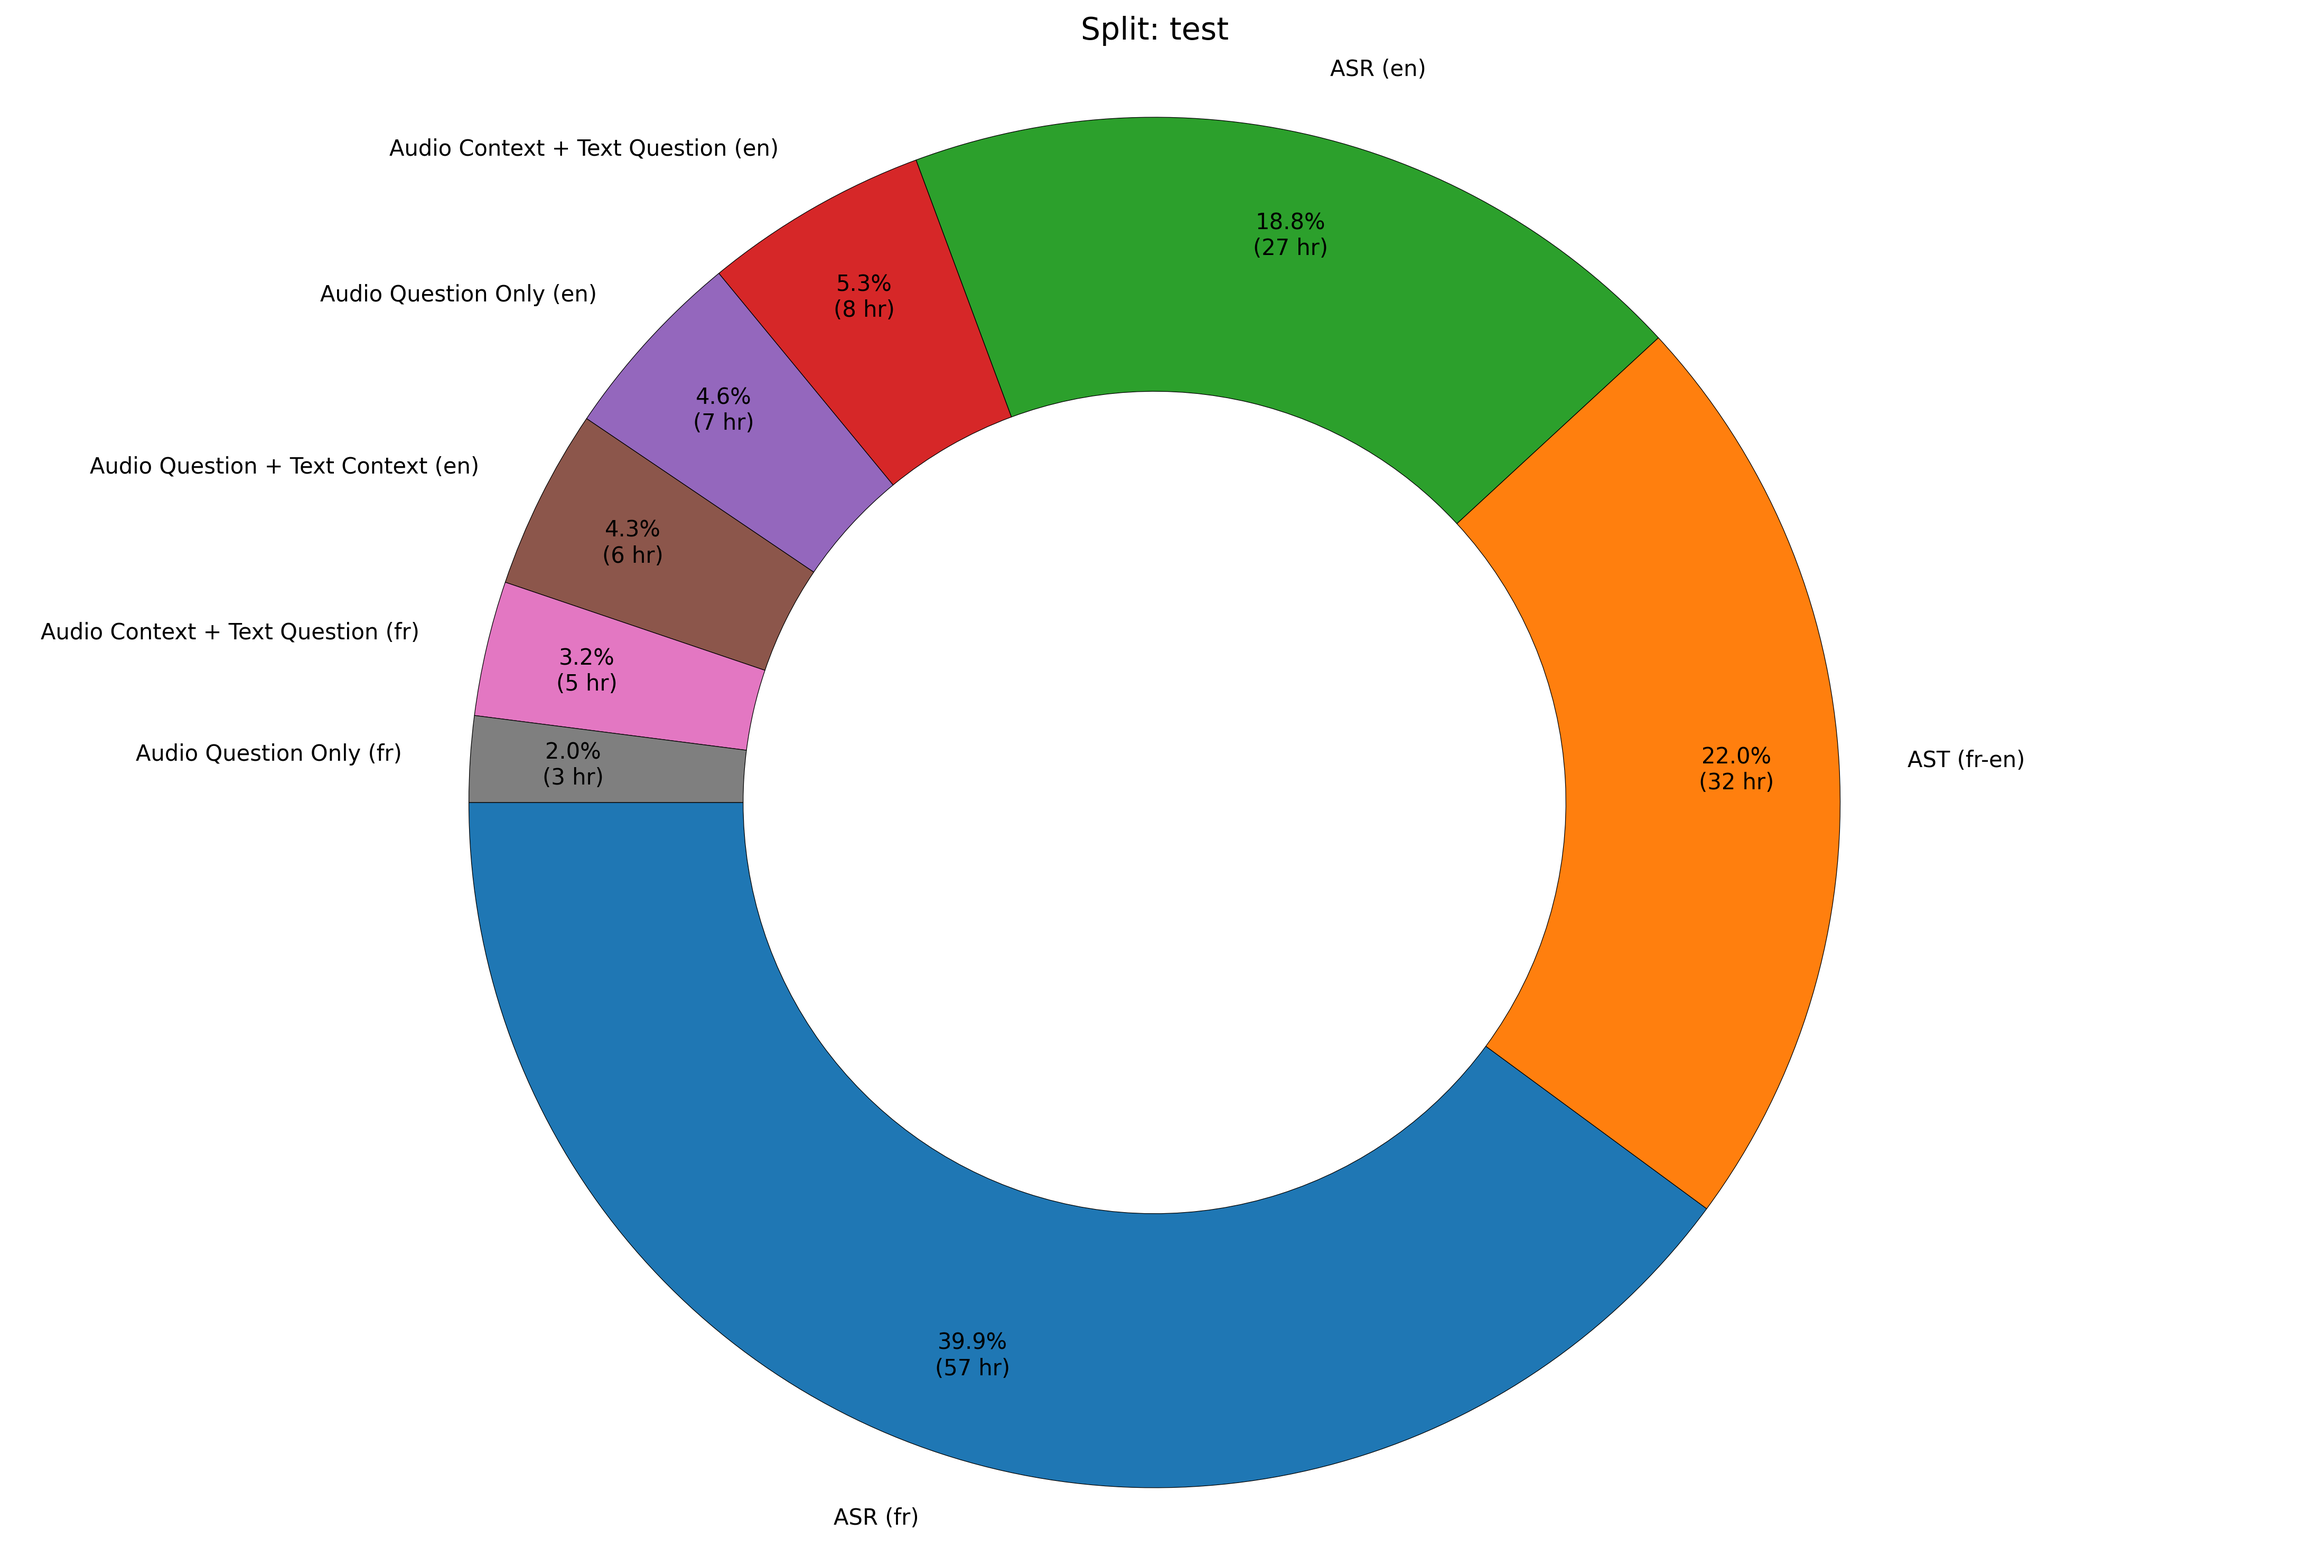
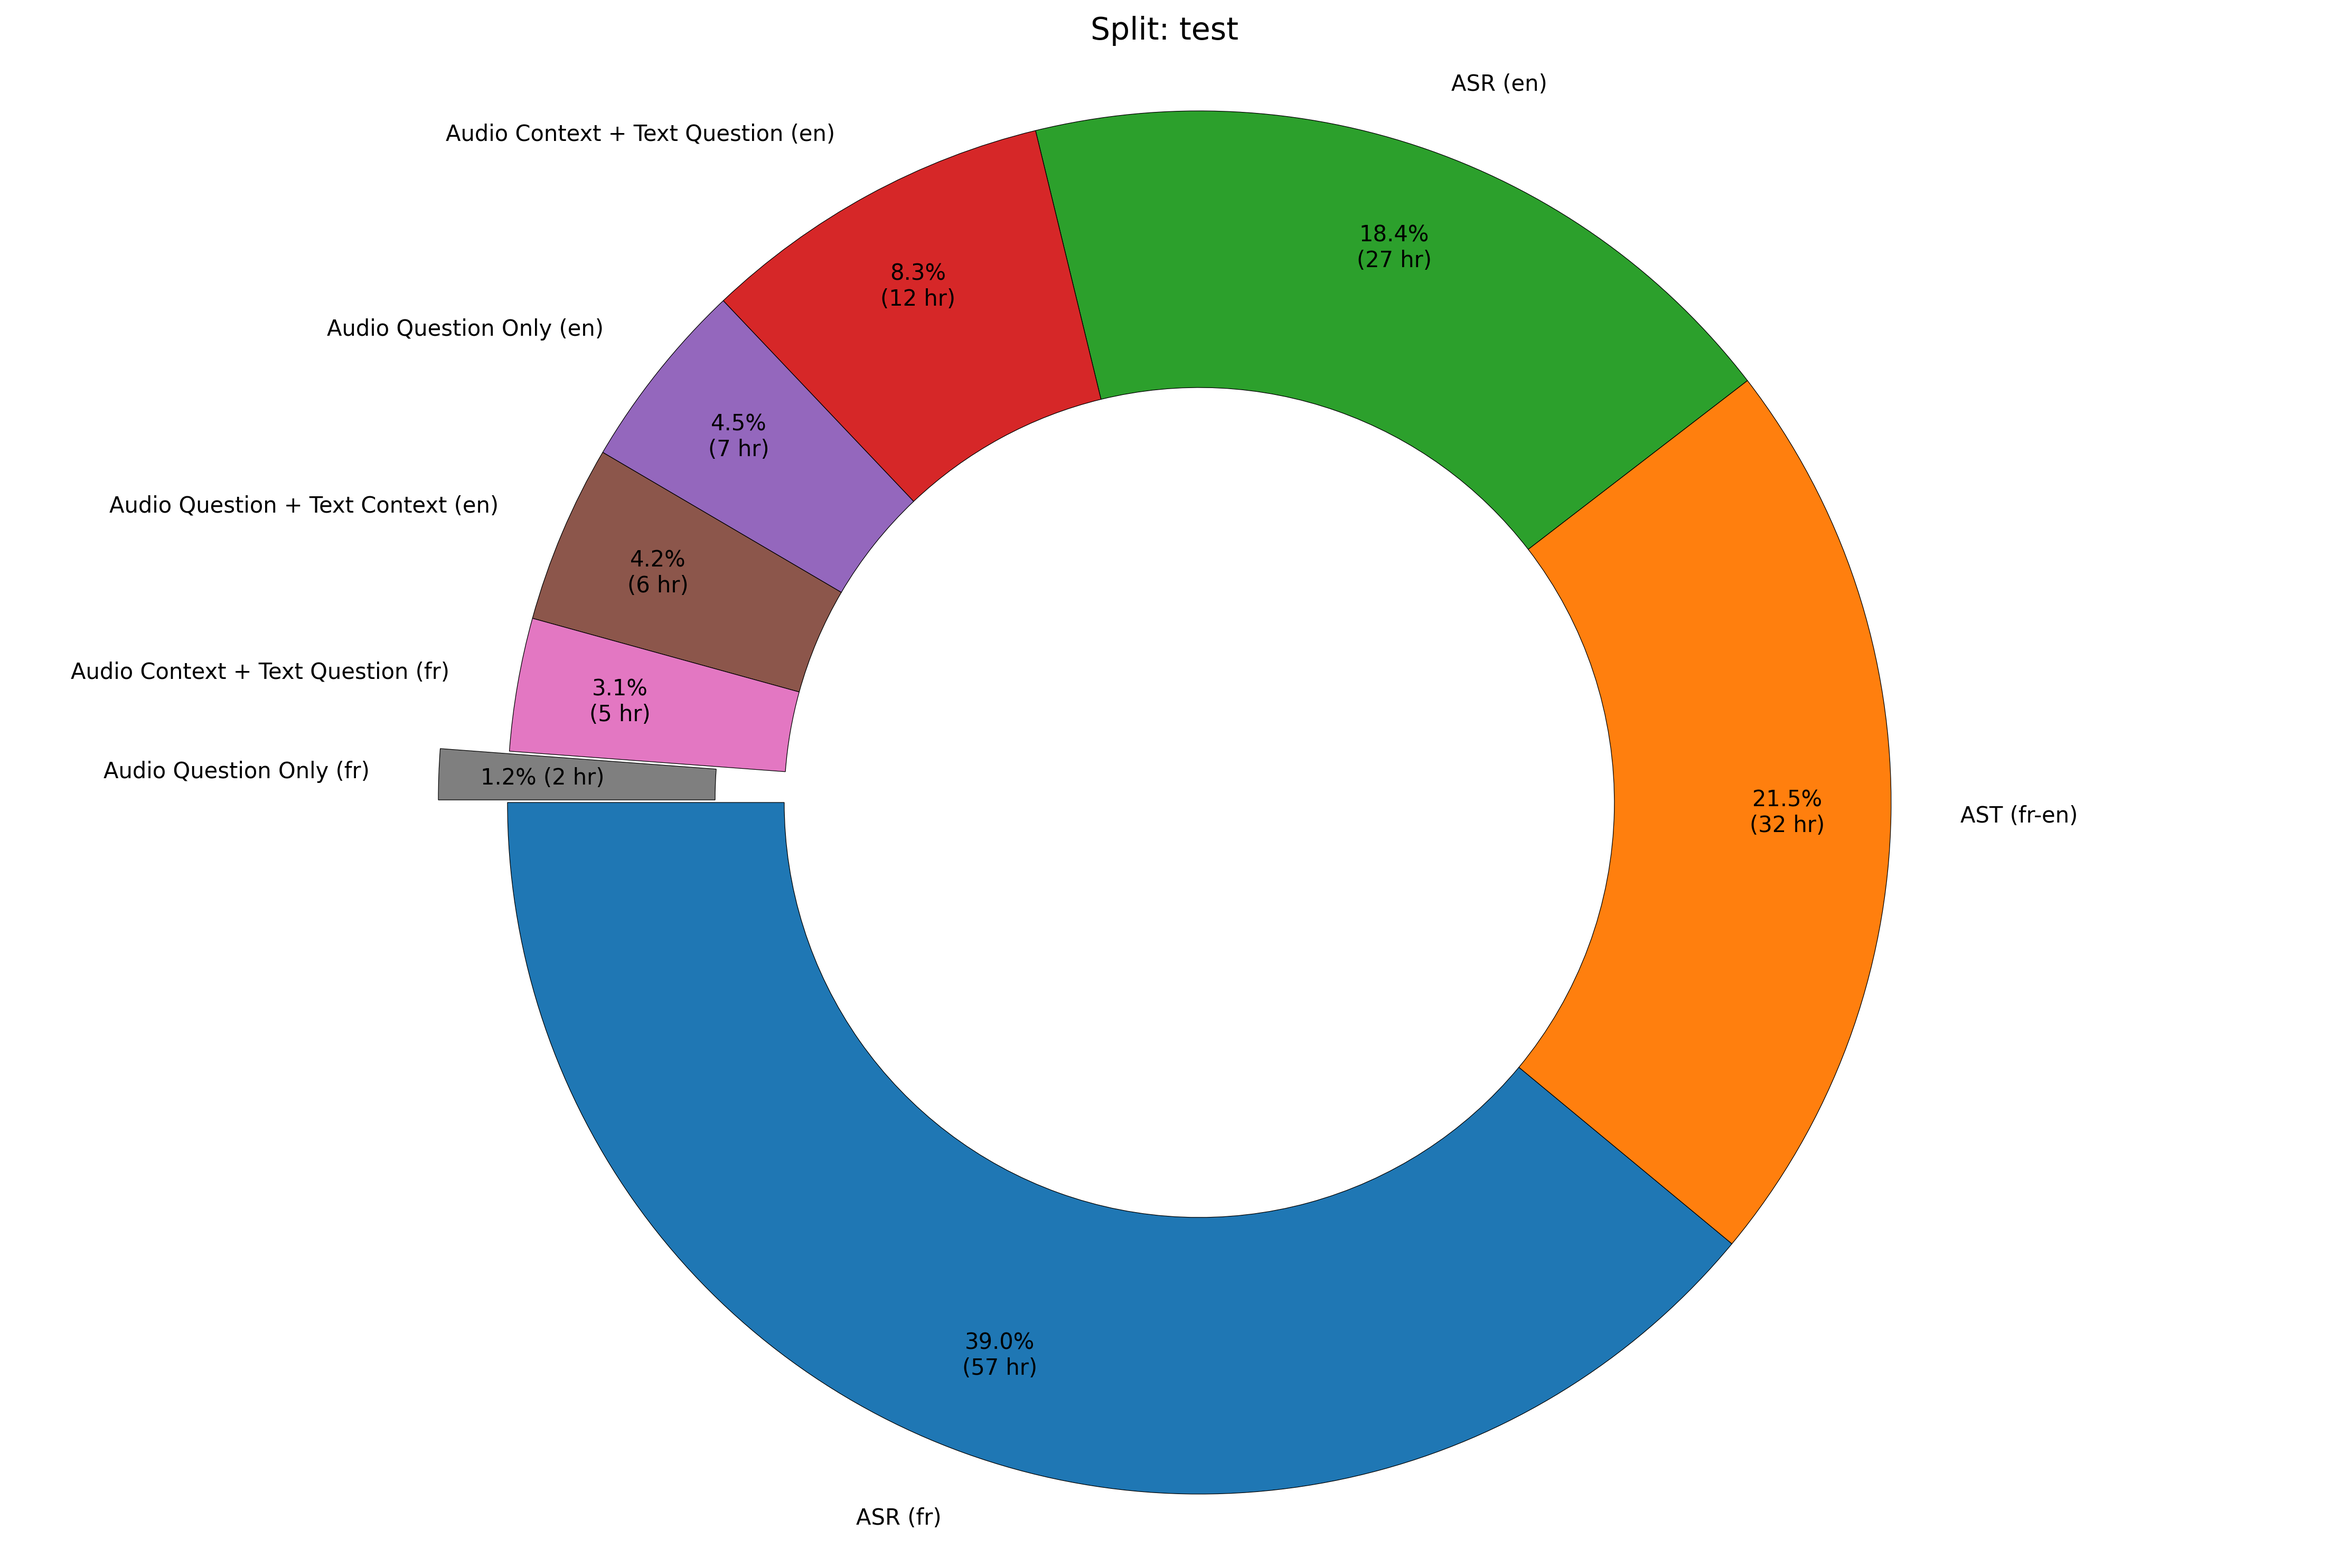
- Update the Assets the metadata and the plots. - Update the utils/manifest2wav.py to accept the single-turn manifests.

diff --git a/utils/manifest2wav.py b/utils/manifest2wav.py
@@ -52,7 +52,14 @@ def extract_audio_paths_from_manifest(manifest_path):
                                     audio_paths.append(audio_path)
                                 elif audio_path:
                                     print(f"Warning: Audio file not found: {audio_path}")
-                    
+                    else:
+                        # Fallback to 'audio_filepath' key
+                        if 'audio_filepath' in data:
+                            audio_path = data['audio_filepath']
+                            if audio_path and Path(audio_path).exists():
+                                audio_paths.append(audio_path)
+                            elif audio_path:
+                                print(f"Warning: Audio file not found: {audio_path}")
                 except json.JSONDecodeError as e:
                     print(f"Warning: Invalid JSON on line {line_num}: {e}")
                     continue
